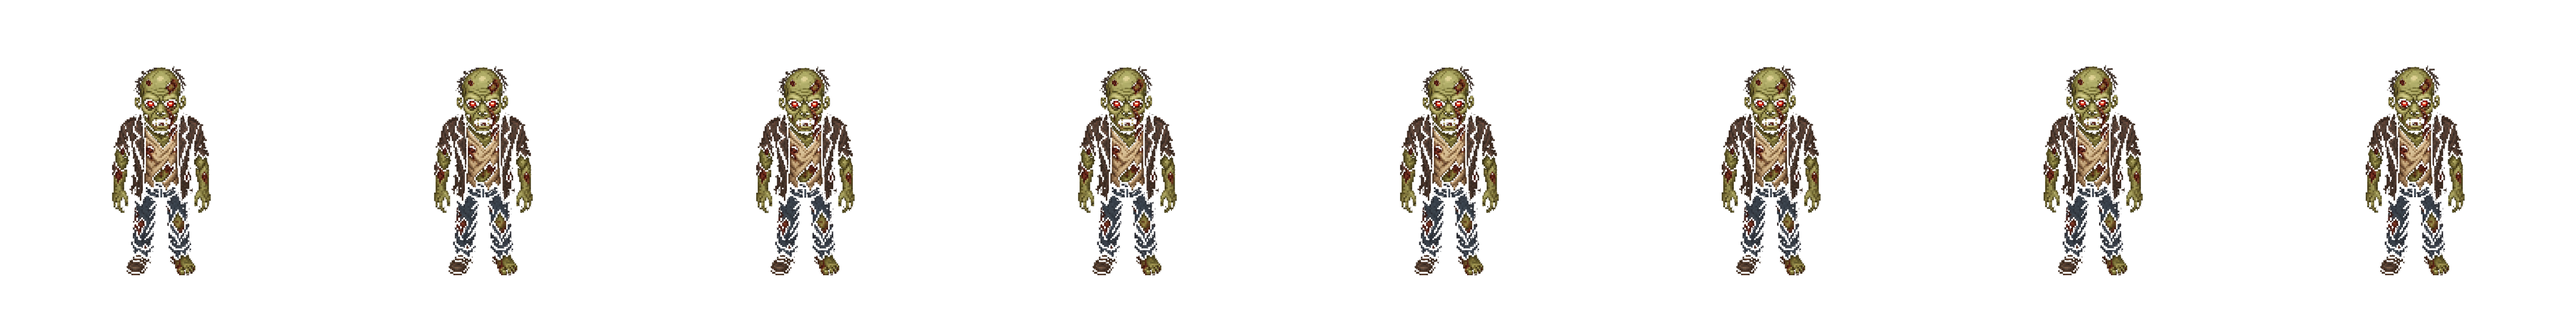
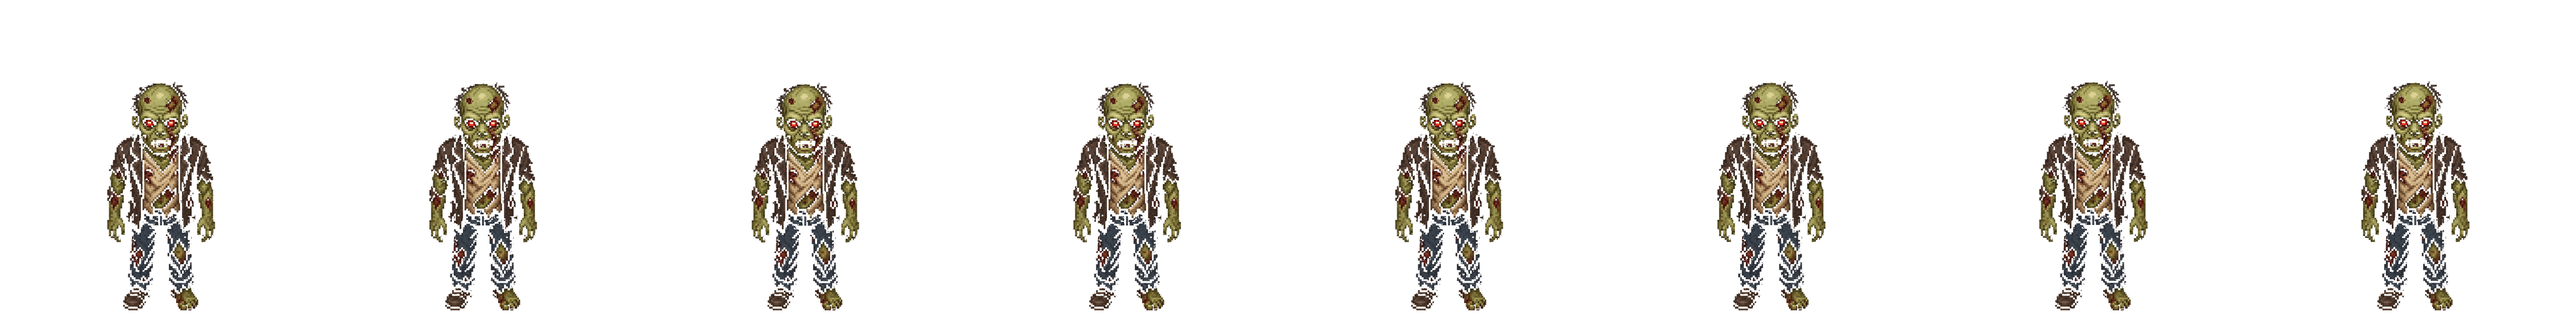
Fix zombie grounding at feet and restore rotation toward the player.

diff --git a/public/game.js b/public/game.js
@@ -159,7 +159,7 @@ const WAVE_EVENTS = [
 
 
 
-const SPRITE_VERSION = 26;
+const SPRITE_VERSION = 27;
 
 function loadSpriteSheet(relativePath, frameCount, frameWidth, frameHeight, meta = {}) {
   const sheet = { img: new Image(), frameCount, frameWidth, frameHeight, ready: false, ...meta };
@@ -287,6 +287,7 @@ const zombieSprites = {
 };
 
 const ZOMBIE_VARIANT_FRAME_COUNT = 8;
+const ZOMBIE_VARIANT_FEET_RATIO = 0.96875;
 
 const ZOMBIE_VARIANT_META = {
   normal: {
@@ -371,14 +372,13 @@ function getZombieDrawMotion(z) {
   }
 
   const set = getZombieVariantSet(z);
-  const facingLeft = Math.cos(z.facingAngle || 0) < 0;
   const moving = (z.animTick || 0) > 0;
 
   return {
     frame: moving ? z.animFrame || 0 : 0,
     cyOffset: 0,
-    angle: 0,
-    squashX: facingLeft ? -1 : 1,
+    angle: z.facingAngle || 0,
+    squashX: 1,
     drawSize: z.size * (set.sizeMult || 1),
     anchor: "feet"
   };
@@ -6921,7 +6921,8 @@ function drawSpriteSheet(sheet, frame, cx, cy, size, angle, options = {}) {
   const drawW = sheet.frameWidth * scale * squashX;
   const drawH = sheet.frameHeight * scale;
   const anchor = options.anchor || "center";
-  const destY = anchor === "feet" ? -drawH : -drawH / 2;
+  const destY =
+    anchor === "feet" ? -drawH * ZOMBIE_VARIANT_FEET_RATIO : -drawH / 2;
 
   ctx.save();
   ctx.translate(cx, cy);
@@ -7279,7 +7280,7 @@ function drawHealthBar(cx, top, hp, maxHp, options = {}) {
 }
 
 function drawEntityShadow(cx, cy, size, anchor = "center") {
-  const shadowY = anchor === "feet" ? cy + size * 0.03 : cy + size * 0.14;
+  const shadowY = anchor === "feet" ? cy + size * 0.015 : cy + size * 0.14;
   const shadowW = size * (anchor === "feet" ? 0.42 : 0.36);
   const shadowH = size * (anchor === "feet" ? 0.15 : 0.13);
   ctx.fillStyle = "rgba(0,0,0,0.42)";

diff --git a/public/index.html b/public/index.html
@@ -5284,7 +5284,7 @@ TikTok @hulklives
 </div>
 
 <script src="game-pro.js?v=3"></script>
-<script src="game.js?v=205"></script>
+<script src="game.js?v=206"></script>
 <script src="chat.js?v=2"></script>
 <script src="daily-challenges.js?v=2"></script>
 <script src="friends.js?v=5"></script>
